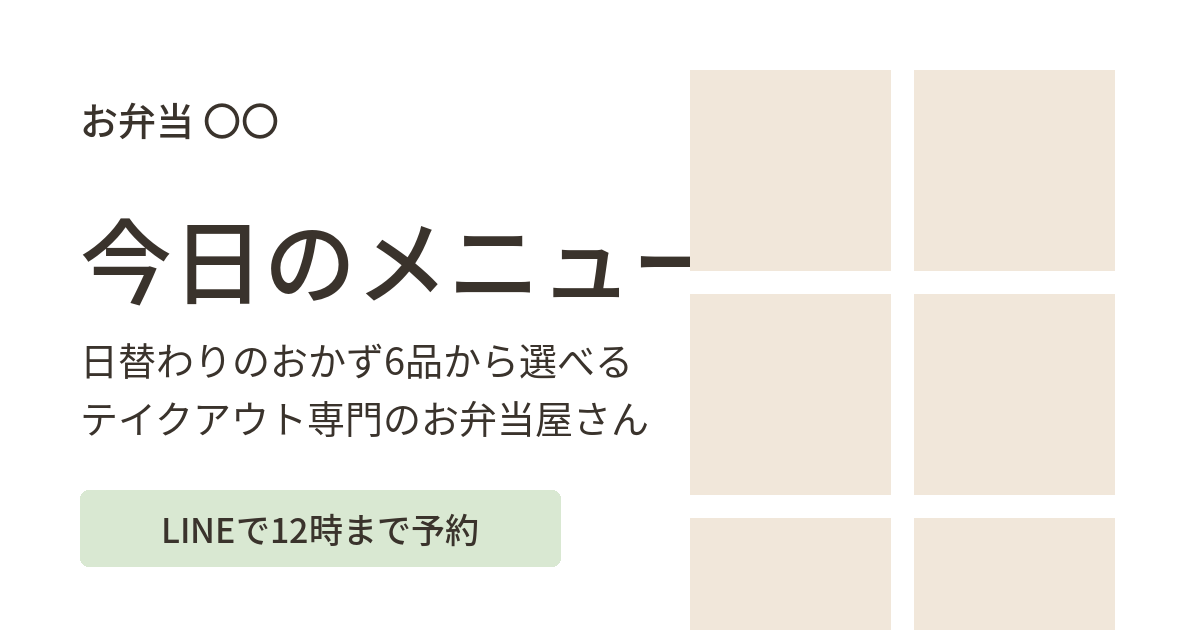
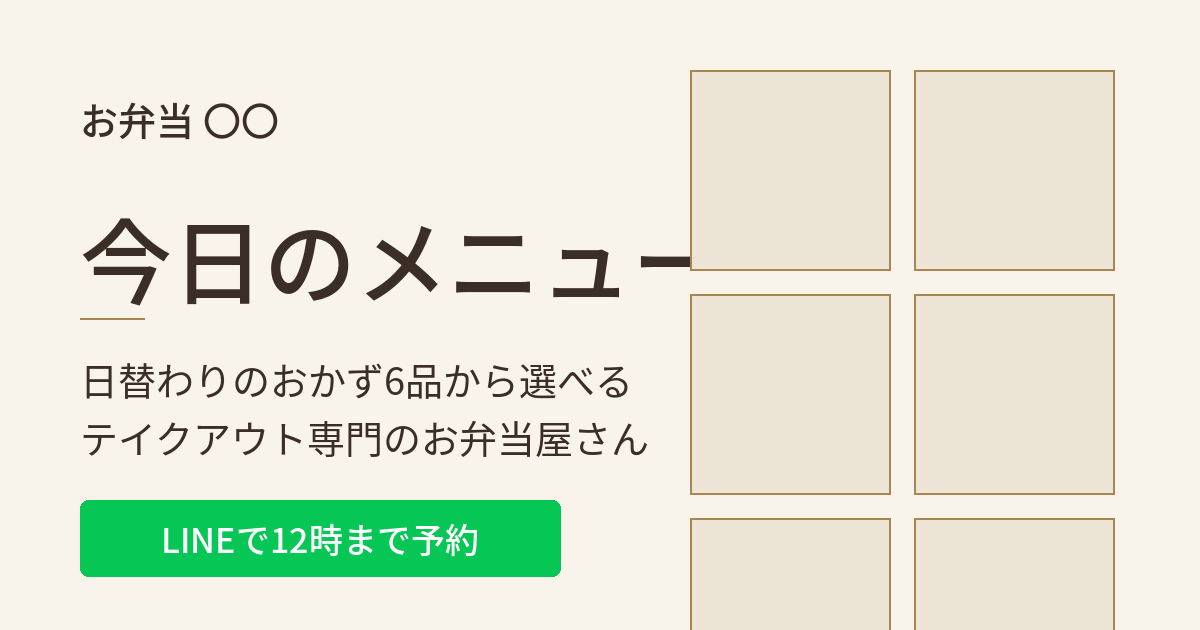
Add files via upload

diff --git a/index.html b/index.html
@@ -23,15 +23,16 @@
 <link rel="preconnect" href="https://fonts.gstatic.com" crossorigin>
 <link href="https://fonts.googleapis.com/css2?family=Zen+Kaku+Gothic+New:wght@300;400;500;700&display=swap" rel="stylesheet">
 <style>
-:root{--ink:#3a332c;--sub:#7a6f64;--brown:#f1e7da;--green:#d9e8d2;--line:#e7ddd0}
+:root{--ink:#3A2E27;--sub:#7a6c62;--ivory:#F8F4EC;--sand:#ECE4D4;--gold:#A8864F;--line:#E3DACA}
 *{box-sizing:border-box;margin:0;padding:0}
-body{font-family:"Zen Kaku Gothic New","Hiragino Kaku Gothic ProN","Yu Gothic",Meiryo,sans-serif;color:var(--ink);background:#fff;line-height:1.75;-webkit-text-size-adjust:100%}
-main,footer{max-width:560px;margin:0 auto}
+body{font-family:"Zen Kaku Gothic New","Hiragino Kaku Gothic ProN","Yu Gothic",Meiryo,sans-serif;color:var(--ink);background:var(--ivory);line-height:1.75;-webkit-text-size-adjust:100%}
+main{max-width:560px;margin:0 auto}
 section{padding:44px 20px;border-top:1px solid var(--line)}
 h1,h2,h3{font-weight:500;line-height:1.4}
 h2{font-size:1.2rem;letter-spacing:.06em;margin-bottom:20px}
+h2::after{content:"";display:block;width:32px;height:1px;background:var(--gold);margin-top:10px}
 ul,ol{list-style:none}
-.ph{background:var(--brown);color:var(--sub);font-size:.78rem;display:flex;align-items:center;justify-content:center;text-align:center;aspect-ratio:4/3}
+.ph{background:var(--sand);color:var(--sub);font-size:.78rem;display:flex;align-items:center;justify-content:center;text-align:center;aspect-ratio:4/3}
 .btn{display:flex;align-items:center;justify-content:center;min-height:60px;padding:0 24px;background:#06C755;color:#fff;text-decoration:none;font-weight:700;font-size:1.1rem;letter-spacing:.08em;border-radius:4px}
 .btn:focus-visible{outline:3px solid var(--ink);outline-offset:3px}
 .sub{color:var(--sub);font-size:.88rem}
@@ -52,22 +53,22 @@ ul,ol{list-style:none}
 
 /* 選び方・価格 */
 .price{display:grid;grid-template-columns:1fr 1fr;gap:12px}
-.price li{background:var(--green);border-radius:4px;padding:20px 12px;text-align:center}
-.price b{display:block;font-size:1.5rem;font-weight:500;margin-bottom:4px}
+.price li{border:1px solid var(--gold);border-radius:4px;padding:20px 12px;text-align:center}
+.price b{display:block;font-size:1.5rem;font-weight:500;margin-bottom:4px;color:var(--gold)}
 .price span{font-size:.88rem}
 
 /* アクセス */
 .map{aspect-ratio:16/9;margin-bottom:20px}
 .info{display:grid;grid-template-columns:5.5rem 1fr;gap:10px 8px;font-size:.92rem}
 .info dt{color:var(--sub)}
-.tag{display:inline-block;background:var(--green);color:var(--ink);font-size:.8rem;padding:1px 10px;border-radius:2px;margin-bottom:16px}
+.tag{display:inline-block;border:1px solid var(--gold);color:var(--ink);font-size:.8rem;padding:1px 10px;border-radius:2px;margin-bottom:16px}
 
 /* 予約 */
 #reserve{padding:64px 20px}
 #reserve h2{margin-bottom:12px}
 .flow{margin:0 0 32px;counter-reset:s}
 .flow li{counter-increment:s;display:flex;gap:12px;padding:8px 0;font-size:.92rem}
-.flow li::before{content:counter(s);flex:none;width:24px;height:24px;border-radius:50%;background:var(--green);color:var(--ink);font-size:.8rem;display:flex;align-items:center;justify-content:center;margin-top:2px}
+.flow li::before{content:counter(s);flex:none;width:24px;height:24px;border-radius:50%;border:1px solid var(--gold);color:var(--ink);font-size:.8rem;display:flex;align-items:center;justify-content:center;margin-top:2px}
 .deadline{font-size:1rem;margin-bottom:8px}
 .deadline b{font-weight:700}
 
@@ -75,8 +76,8 @@ ul,ol{list-style:none}
 .news li{display:flex;gap:16px;padding:12px 0;border-bottom:1px solid var(--line);font-size:.92rem}
 .news time{color:var(--sub);flex:none;min-width:4.6rem}
 
-footer{padding:32px 20px 48px;border-top:1px solid var(--line);font-size:.85rem;color:var(--sub)}
-footer strong{display:block;color:var(--ink);font-weight:500;margin-bottom:4px}
+footer{padding:32px max(20px,calc((100% - 560px)/2 + 20px)) 48px;background:var(--ink);font-size:.85rem;color:var(--ivory)}
+footer strong{display:block;color:var(--ivory);font-weight:500;margin-bottom:4px}
 </style>
 </head>
 <body>
